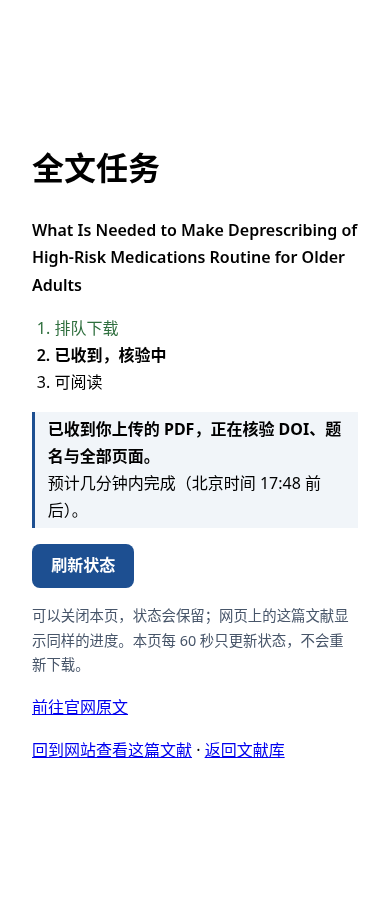
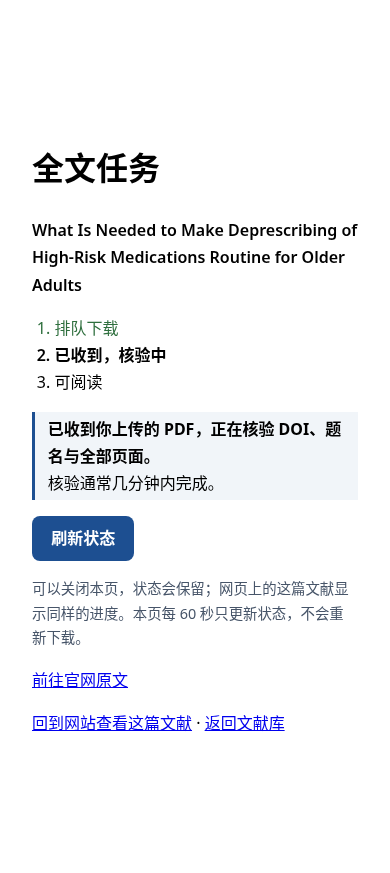
任务页：不按定时推算具体钟点，改为「等待下一轮核验」；合并 main

diff --git a/edge/_worker.js b/edge/_worker.js
@@ -1582,7 +1582,7 @@ function museResponse(request, job, paper) {
   const secondary = view.secondaryUpload ? '<p class="hint">手里已有这篇的 PDF？<a href="/api/muse/reader-upload?doi=' + pdfEscape(encodeURIComponent(job.doi)) + '">直接上传</a>，不必等下载队列。</p>' : '';
   // Maintainer-only detail: hideInstitutionLinks removes this block unless the browser is in maintainer mode.
   const maintainer = HAN_BLOCK_START + '<p class="maint">维护者信息：状态 ' + pdfEscape(job.state) + (publicJob.reason ? '，原因 ' + pdfEscape(publicJob.reason) : '') + '，最近更新北京时间 '
-    + new Date(job.updatedAt + 28800000).toISOString().slice(0,19).replace('T',' ') + (publicJob.nextVerificationAt ? '，下一批定时核验北京时间 ' + new Date(Date.parse(publicJob.nextVerificationAt) + 28800000).toISOString().slice(11,16) : '') + '。</p>' + HAN_BLOCK_END;
+    + new Date(job.updatedAt + 28800000).toISOString().slice(0,19).replace('T',' ') + '。</p>' + HAN_BLOCK_END;
   return pdfHtml(check + (paper?.title ? '<p class="paper-title">' + pdfEscape(paper.title) + '</p>' : '') + '<ol class="steps">' + steps + '</ol>'
     + '<p role="status" class="status"><b>' + pdfEscape(view.headline) + '</b>' + (view.eta ? '<br>' + pdfEscape(view.eta) : '') + '</p>'
     + action + secondary + maintainer
@@ -1590,7 +1590,6 @@ function museResponse(request, job, paper) {
     + pdfOfficialLink(job.doi),job.state === 'available' ? 200 : 202,'全文任务',job.doi);
 }
 const MUSE_TASK_STEPS = ['排队下载','已收到，核验中','可阅读'];
-function museBeijingClock(iso) { return new Date(Date.parse(iso) + 28800000).toISOString().slice(11,16); }
 // One status description per task, shared by the task page; the website script mirrors it so the card and this page never disagree.
 function museTaskView(job, publicJob) {
   const recoverable = museRecoverable(job);
@@ -1601,8 +1600,8 @@ function museTaskView(job, publicJob) {
   if (job.state === 'login_required') return {step:0,stopped:true,stopLabel:'未能获取',headline:'这次没能自动取得全文。',eta:'可以直接上传这篇的 PDF。',action:'upload'};
   if (recoverable) return {step:0,stopped:true,stopLabel:'未能获取',headline:publicJob.reason === 'queue_expired' ? '排队过久仍未被领取，任务已停止。' : '这次没能取得全文。',eta:'可以重新提交，不会重复下载已取得的文件。',action:'retry',secondaryUpload:true};
   if (job.state === 'verifying') return {step:1,stopped:false,headline:'已收到' + received + '，正在核验 DOI、题名与全部页面。',
-    eta:publicJob.verificationMode === 'immediate' ? '预计几分钟内完成（北京时间 ' + museBeijingClock(publicJob.verificationExpectedAt) + ' 前后）。'
-      : '即时核验没有赶上，已排入每小时批次（下一批计划北京时间 ' + museBeijingClock(publicJob.nextVerificationAt) + '），GitHub 的定时任务常晚到数小时。',action:'refresh'};
+    eta:publicJob.verificationMode === 'immediate' ? '核验通常几分钟内完成。'
+      : '即时核验没有赶上，正在等待下一轮核验，具体时间不固定，可能需要数小时。',action:'refresh'};
   if (job.state === 'queued') return {step:0,stopped:false,headline:'已排入下载队列，等待下载端领取。',eta:'预计数小时内，不保证即时。',action:'refresh',secondaryUpload:true};
   return {step:0,stopped:false,headline:'下载端已领取，正在获取全文。',eta:'通常几十分钟内；取得后会自动进入核验。',action:'refresh',secondaryUpload:true};
 }
@@ -1709,7 +1708,7 @@ const MUSE_UPLOAD_FORM_BYTES = LIBRARY_MAX_PDF_BYTES + 65536;
 function museUploadPage(doi, notice = '') {
   return pdfHtml((notice ? '<p role="alert">' + pdfEscape(notice) + '</p>' : '')
     + '<p>如果你能在自己的浏览器里打开这篇原文（开放获取，或通过汉堡登录），下载 PDF 后在这里上传，不必等下载队列。</p>'
-    + '<p>原件先进入网站私有隔离区，由独立核验任务检查 DOI、题名与全部页面（通常几分钟内完成；若即时核验没有赶上，要等每小时批次，GitHub 常晚到数小时）；通过后凭全文口令下载。请上传出版社原版或接受稿，50 KiB–10 MiB，不要修改、压缩或加水印。</p>'
+    + '<p>原件先进入网站私有隔离区，由独立核验任务检查 DOI、题名与全部页面（通常几分钟内完成；若即时核验没有赶上，要等下一轮核验，可能需要数小时）；通过后凭全文口令下载。请上传出版社原版或接受稿，50 KiB–10 MiB，不要修改、压缩或加水印。</p>'
     + '<form method="post" enctype="multipart/form-data" action="/api/muse/reader-upload?doi=' + pdfEscape(encodeURIComponent(doi)) + '"><p><label for="pdf">PDF 文件</label><br><input id="pdf" name="pdf" type="file" accept="application/pdf,.pdf" required></p>'
     + '<p><label for="passphrase">全文口令</label><br><input id="passphrase" name="passphrase" type="password" maxlength="256" autocomplete="current-password" required></p><button type="submit">上传并核验</button></form>'
     + pdfOfficialLink(doi),notice ? 403 : 200,'上传全文 PDF',doi);

diff --git a/edge/src/03-muse.js b/edge/src/03-muse.js
@@ -156,7 +156,7 @@ function museResponse(request, job, paper) {
   const secondary = view.secondaryUpload ? '<p class="hint">手里已有这篇的 PDF？<a href="/api/muse/reader-upload?doi=' + pdfEscape(encodeURIComponent(job.doi)) + '">直接上传</a>，不必等下载队列。</p>' : '';
   // Maintainer-only detail: hideInstitutionLinks removes this block unless the browser is in maintainer mode.
   const maintainer = HAN_BLOCK_START + '<p class="maint">维护者信息：状态 ' + pdfEscape(job.state) + (publicJob.reason ? '，原因 ' + pdfEscape(publicJob.reason) : '') + '，最近更新北京时间 '
-    + new Date(job.updatedAt + 28800000).toISOString().slice(0,19).replace('T',' ') + (publicJob.nextVerificationAt ? '，下一批定时核验北京时间 ' + new Date(Date.parse(publicJob.nextVerificationAt) + 28800000).toISOString().slice(11,16) : '') + '。</p>' + HAN_BLOCK_END;
+    + new Date(job.updatedAt + 28800000).toISOString().slice(0,19).replace('T',' ') + '。</p>' + HAN_BLOCK_END;
   return pdfHtml(check + (paper?.title ? '<p class="paper-title">' + pdfEscape(paper.title) + '</p>' : '') + '<ol class="steps">' + steps + '</ol>'
     + '<p role="status" class="status"><b>' + pdfEscape(view.headline) + '</b>' + (view.eta ? '<br>' + pdfEscape(view.eta) : '') + '</p>'
     + action + secondary + maintainer
@@ -164,7 +164,6 @@ function museResponse(request, job, paper) {
     + pdfOfficialLink(job.doi),job.state === 'available' ? 200 : 202,'全文任务',job.doi);
 }
 const MUSE_TASK_STEPS = ['排队下载','已收到，核验中','可阅读'];
-function museBeijingClock(iso) { return new Date(Date.parse(iso) + 28800000).toISOString().slice(11,16); }
 // One status description per task, shared by the task page; the website script mirrors it so the card and this page never disagree.
 function museTaskView(job, publicJob) {
   const recoverable = museRecoverable(job);
@@ -175,8 +174,8 @@ function museTaskView(job, publicJob) {
   if (job.state === 'login_required') return {step:0,stopped:true,stopLabel:'未能获取',headline:'这次没能自动取得全文。',eta:'可以直接上传这篇的 PDF。',action:'upload'};
   if (recoverable) return {step:0,stopped:true,stopLabel:'未能获取',headline:publicJob.reason === 'queue_expired' ? '排队过久仍未被领取，任务已停止。' : '这次没能取得全文。',eta:'可以重新提交，不会重复下载已取得的文件。',action:'retry',secondaryUpload:true};
   if (job.state === 'verifying') return {step:1,stopped:false,headline:'已收到' + received + '，正在核验 DOI、题名与全部页面。',
-    eta:publicJob.verificationMode === 'immediate' ? '预计几分钟内完成（北京时间 ' + museBeijingClock(publicJob.verificationExpectedAt) + ' 前后）。'
-      : '即时核验没有赶上，已排入每小时批次（下一批计划北京时间 ' + museBeijingClock(publicJob.nextVerificationAt) + '），GitHub 的定时任务常晚到数小时。',action:'refresh'};
+    eta:publicJob.verificationMode === 'immediate' ? '核验通常几分钟内完成。'
+      : '即时核验没有赶上，正在等待下一轮核验，具体时间不固定，可能需要数小时。',action:'refresh'};
   if (job.state === 'queued') return {step:0,stopped:false,headline:'已排入下载队列，等待下载端领取。',eta:'预计数小时内，不保证即时。',action:'refresh',secondaryUpload:true};
   return {step:0,stopped:false,headline:'下载端已领取，正在获取全文。',eta:'通常几十分钟内；取得后会自动进入核验。',action:'refresh',secondaryUpload:true};
 }

diff --git a/edge/src/04-fulltext-upload.js b/edge/src/04-fulltext-upload.js
@@ -11,7 +11,7 @@ const MUSE_UPLOAD_FORM_BYTES = LIBRARY_MAX_PDF_BYTES + 65536;
 function museUploadPage(doi, notice = '') {
   return pdfHtml((notice ? '<p role="alert">' + pdfEscape(notice) + '</p>' : '')
     + '<p>如果你能在自己的浏览器里打开这篇原文（开放获取，或通过汉堡登录），下载 PDF 后在这里上传，不必等下载队列。</p>'
-    + '<p>原件先进入网站私有隔离区，由独立核验任务检查 DOI、题名与全部页面（通常几分钟内完成；若即时核验没有赶上，要等每小时批次，GitHub 常晚到数小时）；通过后凭全文口令下载。请上传出版社原版或接受稿，50 KiB–10 MiB，不要修改、压缩或加水印。</p>'
+    + '<p>原件先进入网站私有隔离区，由独立核验任务检查 DOI、题名与全部页面（通常几分钟内完成；若即时核验没有赶上，要等下一轮核验，可能需要数小时）；通过后凭全文口令下载。请上传出版社原版或接受稿，50 KiB–10 MiB，不要修改、压缩或加水印。</p>'
     + '<form method="post" enctype="multipart/form-data" action="/api/muse/reader-upload?doi=' + pdfEscape(encodeURIComponent(doi)) + '"><p><label for="pdf">PDF 文件</label><br><input id="pdf" name="pdf" type="file" accept="application/pdf,.pdf" required></p>'
     + '<p><label for="passphrase">全文口令</label><br><input id="passphrase" name="passphrase" type="password" maxlength="256" autocomplete="current-password" required></p><button type="submit">上传并核验</button></form>'
     + pdfOfficialLink(doi),notice ? 403 : 200,'上传全文 PDF',doi);
